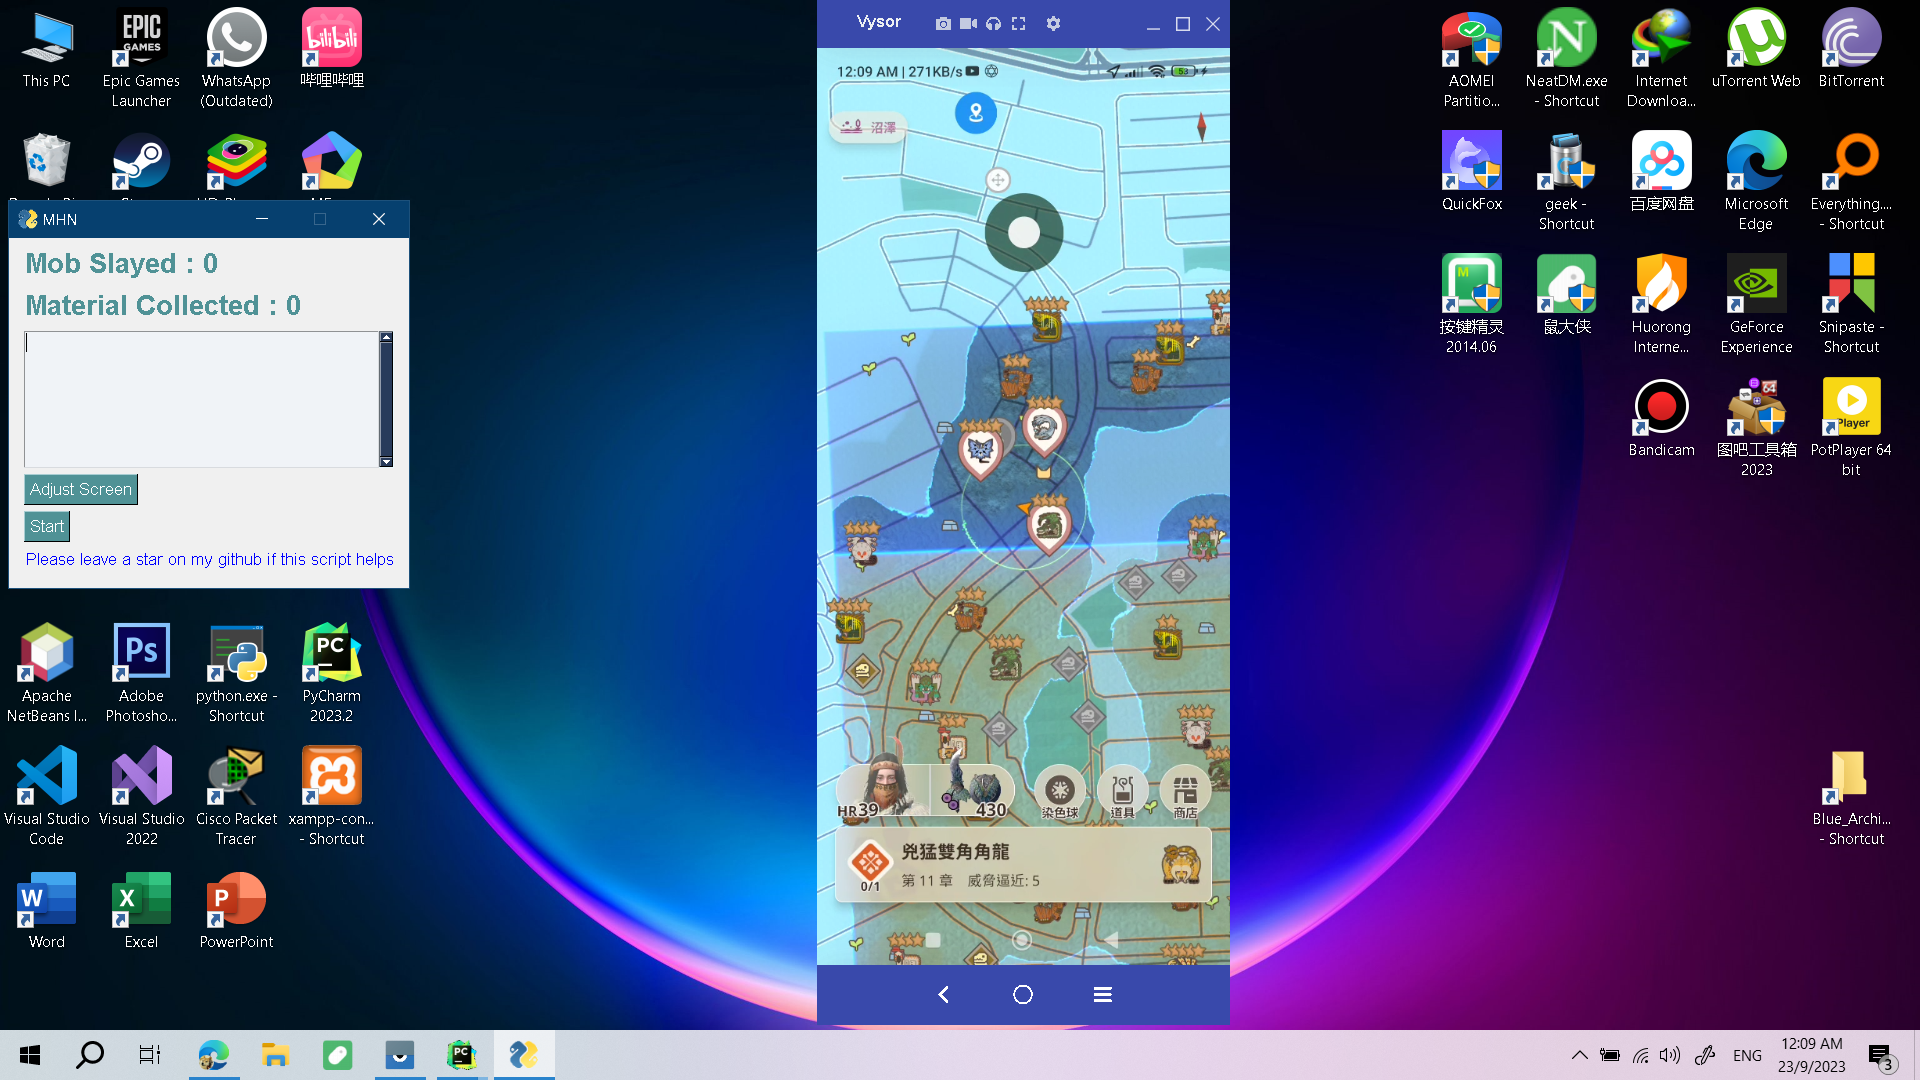
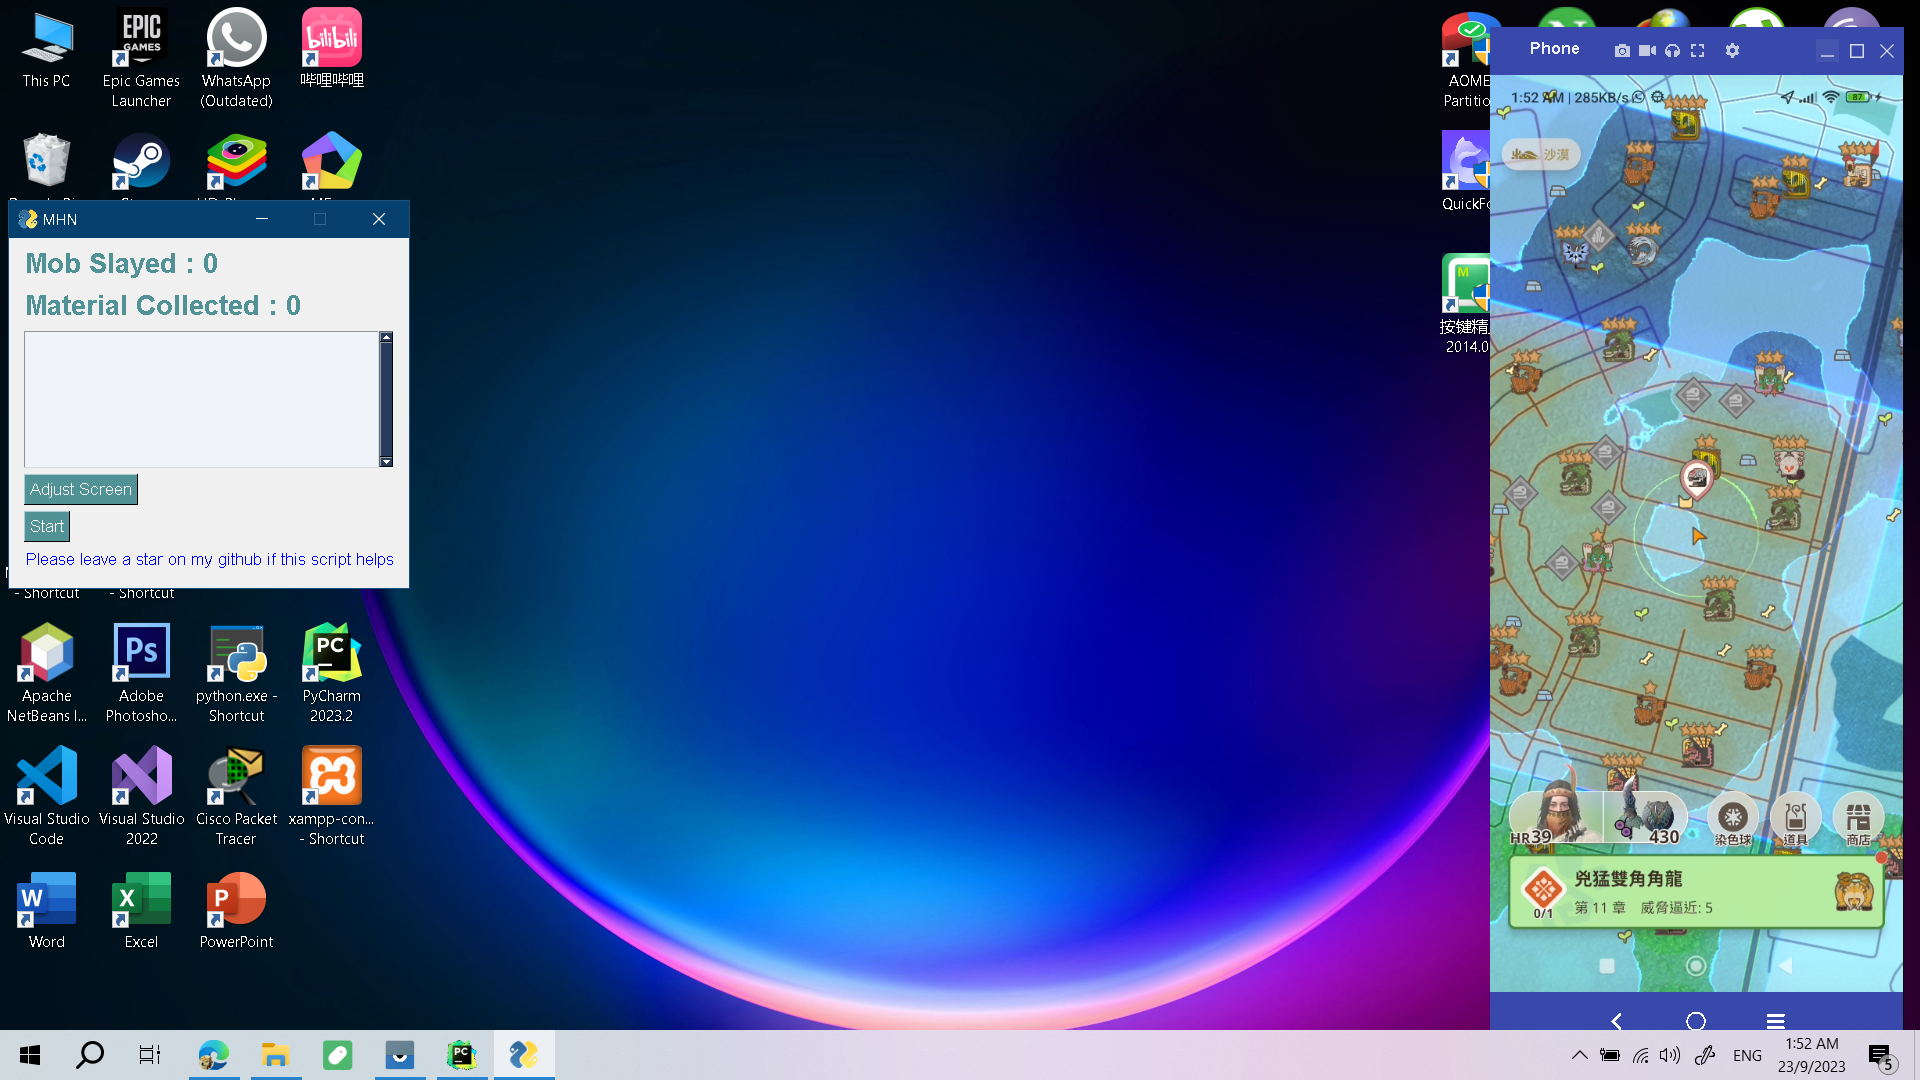
modify code

diff --git a/utils.py b/utils.py
@@ -1,11 +1,5 @@
-import webbrowser
-
-import PySimpleGUI as sg
-import pyautogui
 import time
 import pygetwindow as gw
-import PySimpleGUI as sg
-from pygetwindow import Win32Window
 import ctypes
 import pyautogui
 import cv2
@@ -14,7 +8,7 @@ pyautogui.FAILSAFE = False
 
 
 def detect_app():
-    app_titles = ["Phone","phone"]
+    app_titles = ["Phone", "phone"]
 
     # Find the window with a matching title
     app_window = None
@@ -39,22 +33,24 @@ def adjust_screen(window):
         # Resize the window
         app_window.resizeTo(400, 1025)
 
-        # Get Screen Center
+        # Get screen dimensions
         screen_width = ctypes.windll.user32.GetSystemMetrics(0)
         screen_height = ctypes.windll.user32.GetSystemMetrics(1)
 
         window_width = app_window.width
         window_height = app_window.height
 
-        screen_center_x = (screen_width - window_width) // 2
+        # Calculate the right center position
         screen_center_y = (screen_height - window_height) // 2
+        screen_right_x = screen_width - window_width - 30
 
         app_window.activate()
 
         # Select app
         time.sleep(1)
-        # Move the window to the center of the screen
-        app_window.moveTo(screen_center_x, screen_center_y)
+
+        # Move the window to the right center of the screen
+        app_window.moveTo(screen_right_x, screen_center_y)
 
         window["row1"].update("Screen Adjusted!!", text_color="#509296", font=("Helvetica", 16, "bold"),
                               background_color="#f0f0f0")

diff --git a/main.py b/main.py
@@ -28,8 +28,6 @@ def display_ui():
 
     window = sg.Window("MHN", layout, location=window_location, keep_on_top=True, size=window_size)
 
-    global window
-
     def ui_content(window):
         # Infinite Looping
         while True:
@@ -38,7 +36,7 @@ def display_ui():
             if event == "start":
                 start_farm(window)
 
-            # if click reset
+            # if click adjust screen
             if event == "adjust_screen":
                 window["row1"].update("Adjust Screen...")
                 window.refresh()
@@ -126,7 +124,7 @@ def start_farm(window):
 def slay_mob(coordinate, mob_count, window):
     utils.click(coordinate, "Mob Found\n", window)
 
-    for i in range(4):
+    for i in range(10):
         pyautogui.doubleClick(coordinate[0], coordinate[1], button="left")
         time.sleep(0.5)
 
